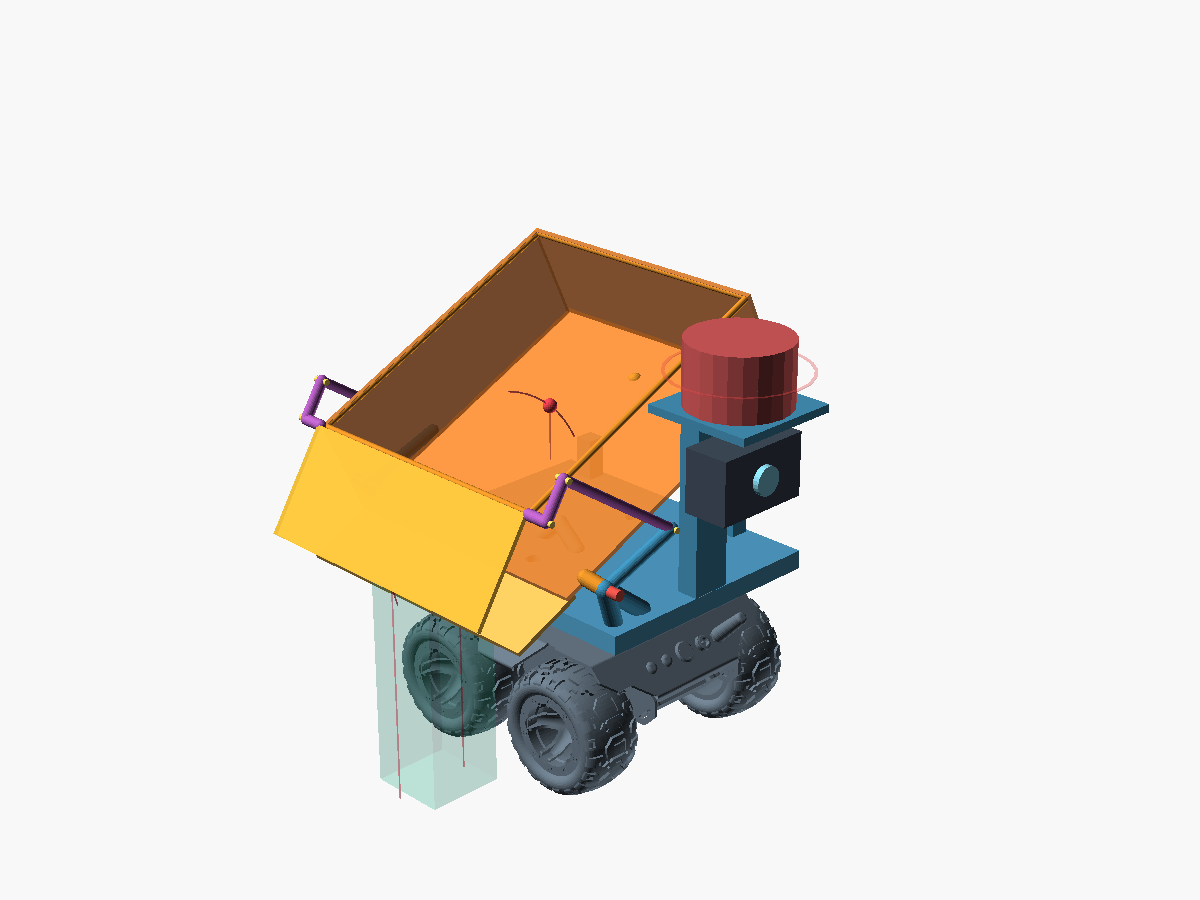
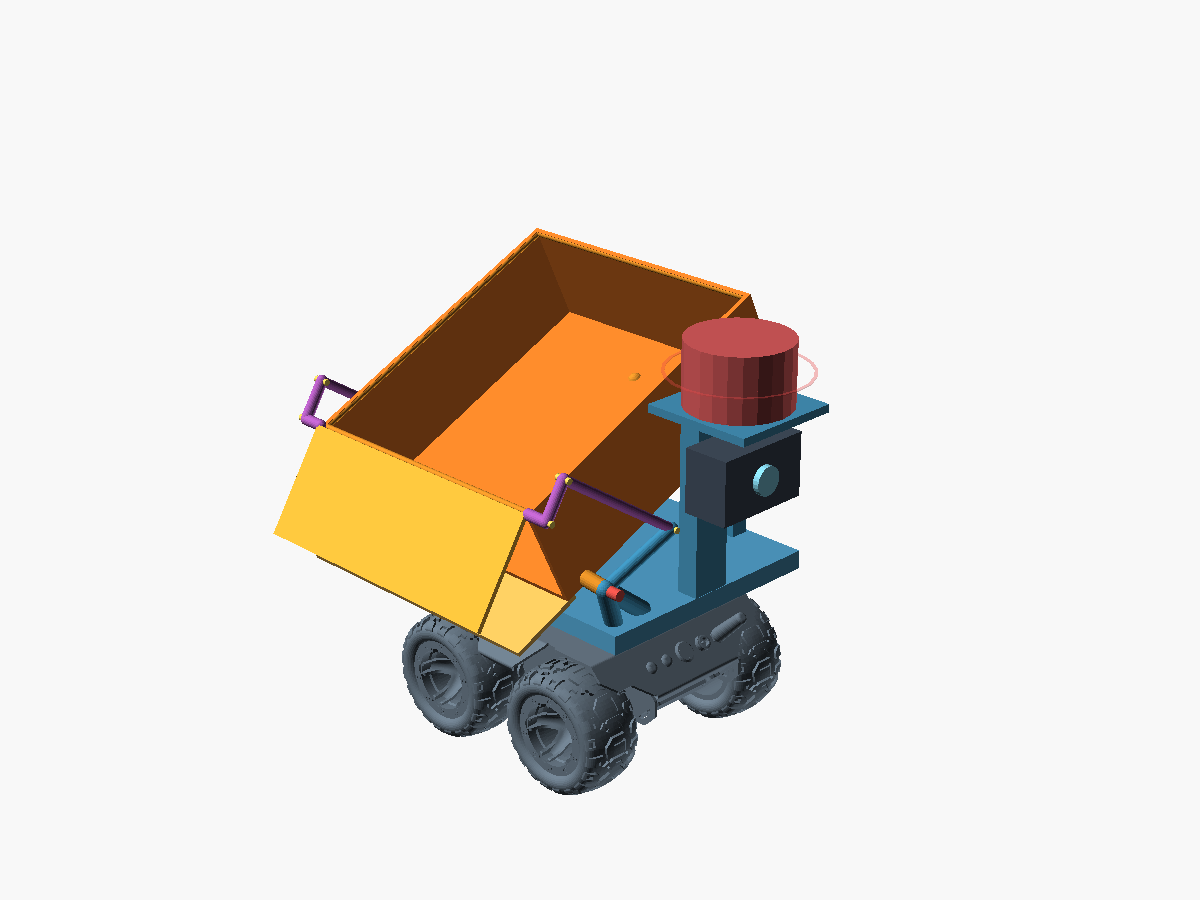
fix: 默认展示完整闭合小斗并分离调试视图

Changed region(s): [[0.2775, 0.2489, 0.6475, 0.6844], [0.3083, 0.6533, 0.4317, 0.9022], [0.4008, 0.7156, 0.4317, 0.7467]]

diff --git a/docs/hardware/cad/compact_dump_v2/render.py b/docs/hardware/cad/compact_dump_v2/render.py
@@ -60,7 +60,7 @@ def main():
     cutaway=bool(re.search(r'^cutaway=true;',source_text,re.M))
     show_cg=bool(re.search(r'^show_cg=true;',source_text,re.M))
     # 显示开关也进入图注；整斗显示时不能仍声称近侧被剖开。
-    display_note=('近侧端面剖切' if cutaway else '完整三壁斗')+'；'+('红点均匀、紫/洋红点偏载垃圾CG' if show_cg else '垃圾重心点隐藏')+'；设备尺寸为占位。'
+    display_note=('端面剖切调试图' if cutaway else '完整斗体外观')+'；'+('红点均匀、紫/洋红点偏载垃圾CG' if show_cg else '重心调试点隐藏')+'；设备尺寸为占位。'
     OUT.mkdir(exist_ok=True)
     # 保留三张原始姿态图，可单独放大检查每个铰接关系。
     # 固定镜头分别显示运输、途中、卸料，避免每帧自动缩放造成运动错觉。
@@ -76,7 +76,7 @@ def main():
     size='×'.join(f'{v:g}' for v in labels['dimensions'])
     d.text((24,15),f'{p["payload_kg"]:g} kg 小侧斗样机 · {size} mm · 原车实测 {p["base_mass_kg"]:g} kg',(25,40,50),font=font(32))
     d.text((24,65),'蓝：固定架 / 前塔   橙：小斗   绿：丝杆   紫：侧门杆   红柱：雷达   黑盒：相机',(45,60,70),font=font(25))
-    for i,(im,title) in enumerate([(images[0],'运输 0°：低位小斗，前塔固定'),(images[2],f'侧卸 {p["max_angle"]:g}°：侧门同步开启，导料唇外伸')]):
+    for i,(im,title) in enumerate([(images[0],'放平 0°：四壁齐全、侧门闭合'),(images[2],f'侧卸 {p["max_angle"]:g}°：开门卸料示意')]):
         # 只作统一缩放，不逐帧裁切到不同大小。
         im=im.resize((900,675))
         board.paste(im,(i*900,155))
@@ -91,7 +91,7 @@ def main():
     board.save(OUT/'overview.png')
     # 沿车长正投影辅助观察轮侧间隙，避免透视投影让绿色通道看似压住轮胎。
     render(args.openscad,OUT/'side_clearance.png',p['max_angle'],'1100,900',
-           ['--projection=o','-D','$vpr=[90,0,90]','-D','$vpt=[-35,-20,100]','-D','$vpd=1200'])
+           ['--projection=o','-D','show_drop_envelope=true','-D','$vpr=[90,0,90]','-D','$vpt=[-35,-20,100]','-D','$vpd=1200'])
     # 动画中也显示同样边界；去程结束后原路回零，避免循环跳变。
     frames=[]
     with tempfile.TemporaryDirectory(prefix='render-',dir=ROOT) as tmp:

diff --git a/docs/hardware/cad/compact_dump_v2/README.md b/docs/hardware/cad/compact_dump_v2/README.md
@@ -10,7 +10,9 @@
 
 ## 怎么看和改
 
-OpenSCAD打开 [compact_dump.scad](compact_dump.scad)。`dump_angle`设0–50°；`cutaway`控制近侧端面剖切；`animate=true`时由`$t`驱动去回；`show_cg`显示三个垃圾情景点与轨迹，分别为均匀、侧口底部、唇端高半斗。它们是固定局部点的姿态包络，未模拟垃圾实际滑动。
+OpenSCAD打开 [compact_dump.scad](compact_dump.scad)，**默认放平0°、四壁齐全、侧门闭合，斗壁不透明**。`dump_angle`可设0–50°；`cutaway`、`show_cg`、`show_drop_envelope`为单独的调试开关，默认全部关闭。`animate=true`时由`$t`驱动去回；打开`show_cg`才显示均匀、侧口底部、唇端高半斗三个垃圾情景点及轨迹，未模拟垃圾实际滑动。
+
+0°理想闭合几何已单独复核：门内面与底板共享540 mm²，与两端壁各共享201 mm²；底面和四周没有设计通缝，顶部保持敞口。实际打印门缝、压紧方式、细碎垃圾或液体泄漏仍未验证。侧向净空图单独开启绿色测试框，主图与默认模型不显示该调试叠层。
 
 | 参数/部位 | 当前设计值 |
 |---|---|

diff --git a/sprints/2026.11.02_00-03_dump-kinematics/tech-done.md b/sprints/2026.11.02_00-03_dump-kinematics/tech-done.md
@@ -4,6 +4,8 @@
 
 ## 小侧斗实际改动与验证
 
+显示修正：用户反馈图中缺墙/漏料后，将默认改为0°、完整四壁、不透明，关闭CG与落料叠层；尺寸/轴线/机构参数保持。独立0°复核门对底板接触540mm²、两端壁各201mm²，固定三壁与底板Zgap=0，理想模型四周无通缝；制造压紧和泄漏仍未验证。主图展示闭合外观，侧向净空图单独开启测试框。
+
 新目录`compact_dump_v2`：180×200×70 mm斗、X向侧轴Y=-80/Z63、40mm导料唇（6mm内搭接、运输宽240）、不等长四杆侧门、80.156→124.348mm双铰执行器、固定前塔雷达/相机。低塔默认scanZ180/cameraZ120；设备尺寸仍占位。用户原车0.7kg，垃圾目标0.5kg，车CG及新附件未知。
 
 `python -B .../compact_dump_v2/verify.py`：默认102去回与变参102姿态通过；最小力臂18.027mm、执行器包络最小间隙2.129mm、设备分离4mm。完整斗/门/唇、厂家含轮AABB、轴座/门杆、塔/横撑/镜头均检查。源参数非法行程、过低雷达和无导料搭接明确拒绝。

diff --git a/sprints/2026.11.02_00-03_dump-kinematics/side2side_check.md b/sprints/2026.11.02_00-03_dump-kinematics/side2side_check.md
@@ -4,6 +4,8 @@
 
 ## 小侧斗当前对照
 
+用户指出漏料观感后，默认剖切和调试叠层已关闭，0°完整外观由主节点目视通过；理想闭门接触面积540/201/201mm²经独立核对，无模型通缝。此项不证明打印门缝压紧或防液体泄漏。
+
 | 要求 | 当前证据 | 边界 |
 |---|---|---|
 | 缩小且给雷达/相机留位 | 180×200×70低位斗、固定前塔；主节点验运输/侧卸图 | 设备为可调占位 |
